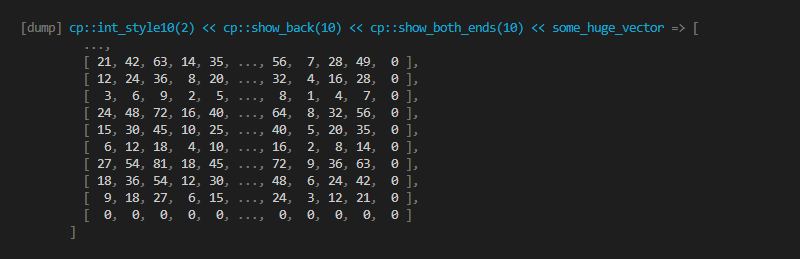
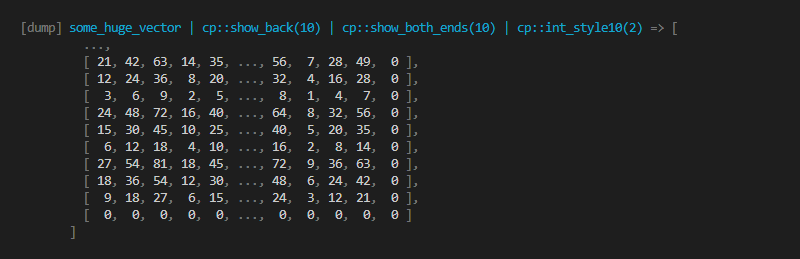
improve README

Changed region(s): [[0.0625, 0.0618, 0.875, 0.1544]]

diff --git a/readme/formatting-with-manipulators.cpp b/readme/formatting-with-manipulators.cpp
@@ -22,17 +22,17 @@ int main() {
   std::clog << std::endl;
 
   // manipulators.png
-  cpp_dump(cp::int_style10(2) << cp::show_back(10) << cp::show_both_ends(10) << some_huge_vector);
+  cpp_dump(some_huge_vector | cp::show_back(10) | cp::show_both_ends(10) | cp::int_style10(2));
 
   std::clog << std::endl;
 
   // omitting-a-vector.png
-  cpp_dump(cp::show_back(10) << cp::show_both_ends(10) << some_huge_vector);
+  cpp_dump(some_huge_vector | cp::show_back(10) | cp::show_both_ends(10));
 
   std::clog << std::endl;
 
   // int-style.png
-  cpp_dump(cp::int_style(2, 8, 2) << cp::show_front(5) << cp::show_front(5) << some_huge_vector);
+  cpp_dump(some_huge_vector | cp::int_style(2, 8, 2) | cp::show_front(5) | cp::show_front(5));
 
   std::clog << std::endl;
 

diff --git a/README.md b/README.md
@@ -489,7 +489,7 @@ See [show\_\* manipulators](#show_-manipulators) for details.
 
 ```cpp
 // Show the last 10 elements for the 1st dimension, the first 5 and the last 5 for the 2nd dimension.
-cpp_dump(cp::show_back(10) << cp::show_both_ends(10) << some_huge_vector);
+cpp_dump(some_huge_vector | cp::show_back(10) | cp::show_both_ends(10));
 ```
 
 ![omitting-a-vector.png](./readme/omitting-a-vector.png)
@@ -499,14 +499,14 @@ See [int_style manipulators](#int_style-manipulators) for details.
 
 ```cpp
 // Show integers in binary, minimum 8 digits, separated by every 2 characters.
-cpp_dump(cp::int_style(2, 8, 2) << cp::show_front(5) << cp::show_front(5) << some_huge_vector);
+cpp_dump(some_huge_vector | cp::int_style(2, 8, 2) | cp::show_front(5) | cp::show_front(5));
 ```
 
 ![int-style](./readme/int-style.png)
 
 ```cpp
 // Show integers in decimal, minimum 2 digits.
-cpp_dump(cp::int_style10(2) << cp::show_back(10) << cp::show_both_ends(10) << some_huge_vector);
+cpp_dump(some_huge_vector | cp::show_back(10) | cp::show_both_ends(10) | cp::int_style10(2));
 ```
 
 ![manipulators.png](./readme/manipulators.png)
@@ -659,7 +659,7 @@ cpp_dump() prints variables recursively, so they can dump nested variables of an
 | Enum          | `CPP_DUMP_DEFINE_EXPORT_ENUM(T, members...);` is at top level.                                                                                                                                                                                                                                        |                                                   |
 | Ostream       | All of the above are not satisfied, `std::is_function_v<T> == false && std::is_member_pointer_v<T> == false`, and the function `std::ostream& operator<<(std::ostream&, const T &)` is defined. **The string representation of T must not be an empty string** (This makes manipulators unsupported). |                                                   |
 | User-defined2 | All of the above are not satisfied, T has all members specified by just one `CPP_DUMP_DEFINE_DANGEROUS_EXPORT_OBJECT(members...);` at top level, and the member functions to be displayed is const.                                                                                                   |                                                   |
-| Asterisk      | All of the above are not satisfied, `cpp_dump::enable_asterisk == true` and the function `TypeExceptT operator*(const T &)` or the const member function `TypeExceptT T::operator*() const` is defined.                                                                                                                                    | Iterators                                         |
+| Asterisk      | All of the above are not satisfied, `cpp_dump::enable_asterisk == true` and the function `TypeExceptT operator*(const T &)` or the const member function `TypeExceptT T::operator*() const` is defined.                                                                                               | Iterators                                         |
 
 ### Display example
 
